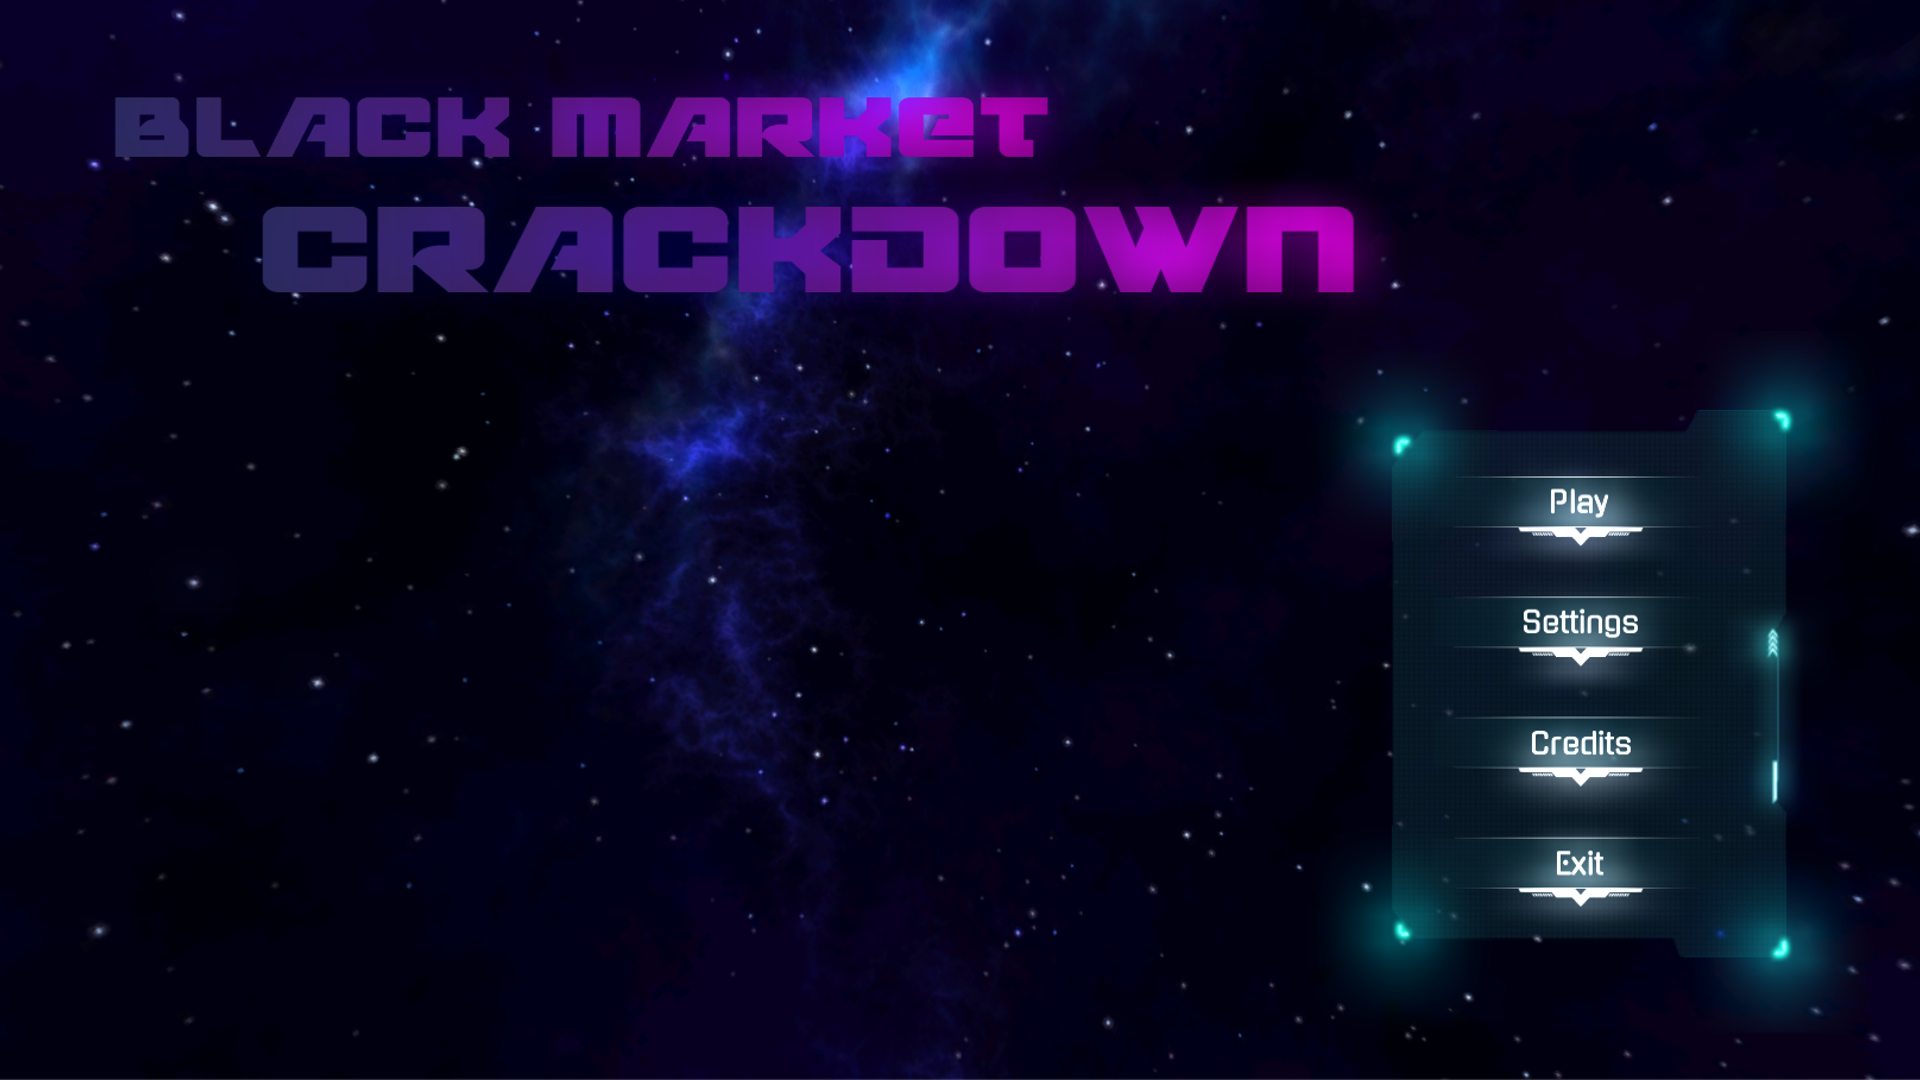
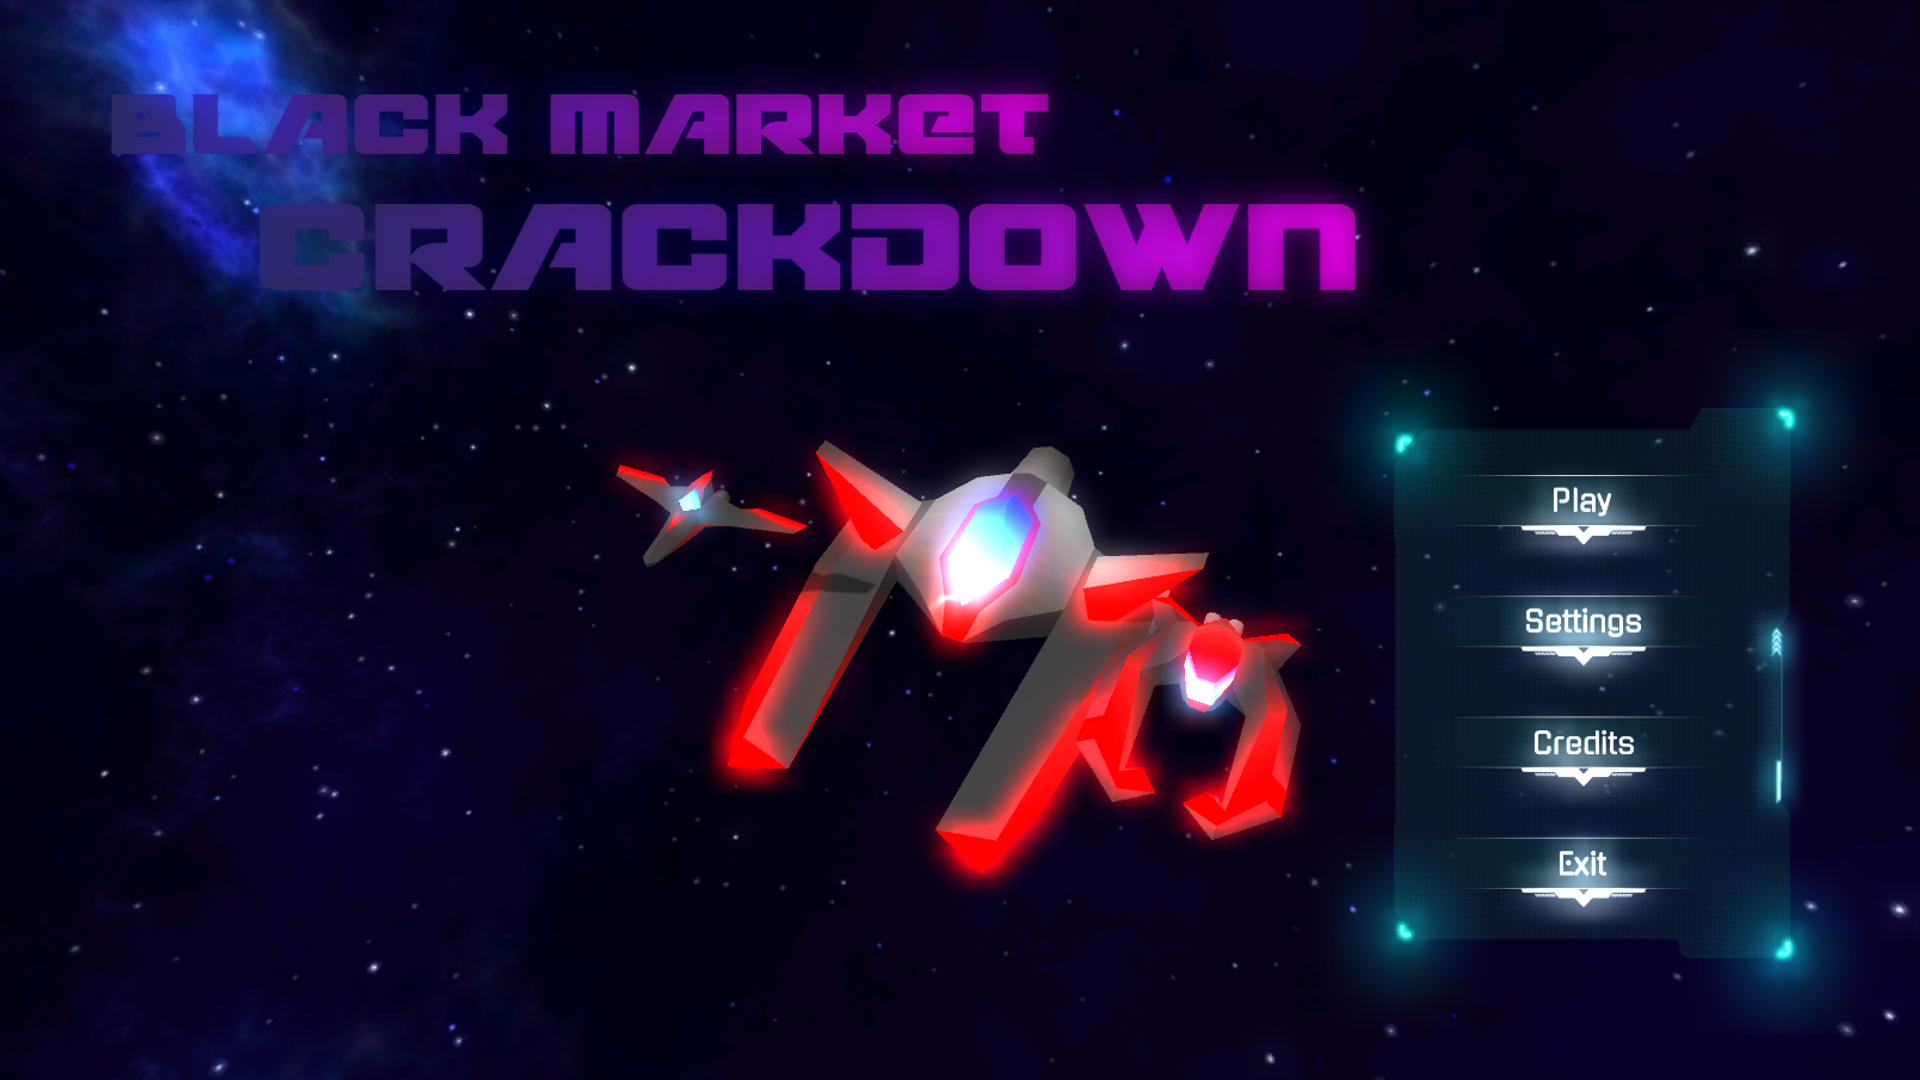
fixed random stuff and wired up shipments and added models to title

diff --git a/src/LDJam44/Assets/Scripts/Noah/SetupStation.cs b/src/LDJam44/Assets/Scripts/Noah/SetupStation.cs
@@ -22,10 +22,10 @@ public class SetupStation : MonoBehaviour
         gameState.PlayerData.Counts = new[] {0, 0, 0};
         spaceStation.ProductsForSale.ToList().ForEach(product =>
         {
-            spaceStation.CurrentSellPrices[product.Name] = Random.Range(product.MinSellPrice, product.MaxSellPrice);
+            spaceStation.CurrentSellPrices[product.Name] = Random.Range(product.MinSellPrice, product.MaxSellPrice + 1);
             gameState.GalaxyData.Stations.ToList().ForEach(station =>
             {
-                station.CurrentBuyPrices[product.Name] = (int)Math.Ceiling(Random.Range(product.MinBuyPrice, product.MaxBuyPrice) * gameState.UpgradeEffect("Trading"));
+                station.CurrentBuyPrices[product.Name] = (int)Math.Ceiling(Random.Range(product.MinBuyPrice, product.MaxBuyPrice + 1) * gameState.UpgradeEffect("Trading"));
             });
         });
         Instantiate(SpaceStationCanvas);

diff --git a/src/LDJam44/Assets/Scripts/EnemyWaveSpawner.cs b/src/LDJam44/Assets/Scripts/EnemyWaveSpawner.cs
@@ -50,7 +50,7 @@ class EnemyWaveSpawner : VerboseMonoBehaviour
         var waypoints = new List<Vector3>();
         waypoints.Add(firstWaypoint);
 
-        var numMidWaypoints = Random.Range(minWaypoints, maxWaypoints) - 2;
+        var numMidWaypoints = Random.Range(minWaypoints, maxWaypoints + 1) - 2;
         for (var i = 0; i < numMidWaypoints; i++)
             waypoints.Add(NextSaneWaypoint(waypoints.Last()));
 
@@ -61,7 +61,7 @@ class EnemyWaveSpawner : VerboseMonoBehaviour
         {
             EnemyProtoype = enemyPrototypes.Random(),
             Path = waypoints.ToArray(),
-            NumEnemies = Random.Range(minEnemiesPerWave, maxEnemiesPerWave),
+            NumEnemies = Random.Range(minEnemiesPerWave, maxEnemiesPerWave + 1),
             SecondsBetweenEnemies = Random.Range(minSecondsBetweenEnemies, maxSecondsBetweenEnemies),
             ZTriggerThreshold = z,
             MaxZAllowed = maxZ

diff --git a/src/LDJam44/Assets/Scripts/GameState.cs b/src/LDJam44/Assets/Scripts/GameState.cs
@@ -44,10 +44,10 @@ public class GameState : Singleton<GameState>
             PlayerData.Counts = new[] { 0, 0, 0 };
             spaceStation.ProductsForSale.ToList().ForEach(product =>
             {
-                spaceStation.CurrentSellPrices[product.Name] = Random.Range(product.MinSellPrice, product.MaxSellPrice);
+                spaceStation.CurrentSellPrices[product.Name] = Random.Range(product.MinSellPrice, product.MaxSellPrice + 1);
                 GalaxyData.Stations.ToList().ForEach(station =>
                 {
-                    station.CurrentBuyPrices[product.Name] = Random.Range(product.MinBuyPrice, product.MaxBuyPrice);
+                    station.CurrentBuyPrices[product.Name] = Random.Range(product.MinBuyPrice, product.MaxBuyPrice + 1);
                 });
             });
         }

diff --git a/src/LDJam44/Assets/Scripts/RandomRotating.cs b/src/LDJam44/Assets/Scripts/RandomRotating.cs
@@ -9,8 +9,8 @@ public class RandomRotating : MonoBehaviour
 
     void Start()
     {
-        Rotating.ZSpeed = Random.Range(-MaxRotation, MaxRotation);
-        Rotating.XSpeed = Random.Range(-MaxRotation, MaxRotation);
-        Rotating.YSpeed = Random.Range(-MaxRotation, MaxRotation);
+        Rotating.ZSpeed = Random.Range(-MaxRotation, MaxRotation + 1);
+        Rotating.XSpeed = Random.Range(-MaxRotation, MaxRotation + 1);
+        Rotating.YSpeed = Random.Range(-MaxRotation, MaxRotation + 1);
     }
 }

diff --git a/src/LDJam44/Assets/Scripts/CargoText.cs b/src/LDJam44/Assets/Scripts/CargoText.cs
@@ -1,4 +1,5 @@
 
+using System.Linq;
 using TMPro;
 
 class CargoText : VerboseMonoBehaviour
@@ -8,6 +9,6 @@ class CargoText : VerboseMonoBehaviour
     private void Start()
     {
         text = VerboseGetComponent<TextMeshProUGUI>();
-        text.text = VerboseFindObjectOfType<GameState>().PlayerData.Products.Length.ToString();
+        text.text = VerboseFindObjectOfType<GameState>().PlayerData.Counts.Sum(x => x).ToString();
     }
 }

diff --git a/src/LDJam44/Assets/Scripts/Noah/IEnumerableExtensions.cs b/src/LDJam44/Assets/Scripts/Noah/IEnumerableExtensions.cs
@@ -2,6 +2,6 @@
 {
     public static T Random<T>(this T[] list)
     {
-        return list[UnityEngine.Random.Range(0, list.Length - 1)];
+        return list[UnityEngine.Random.Range(0, list.Length)];
     }
 }
